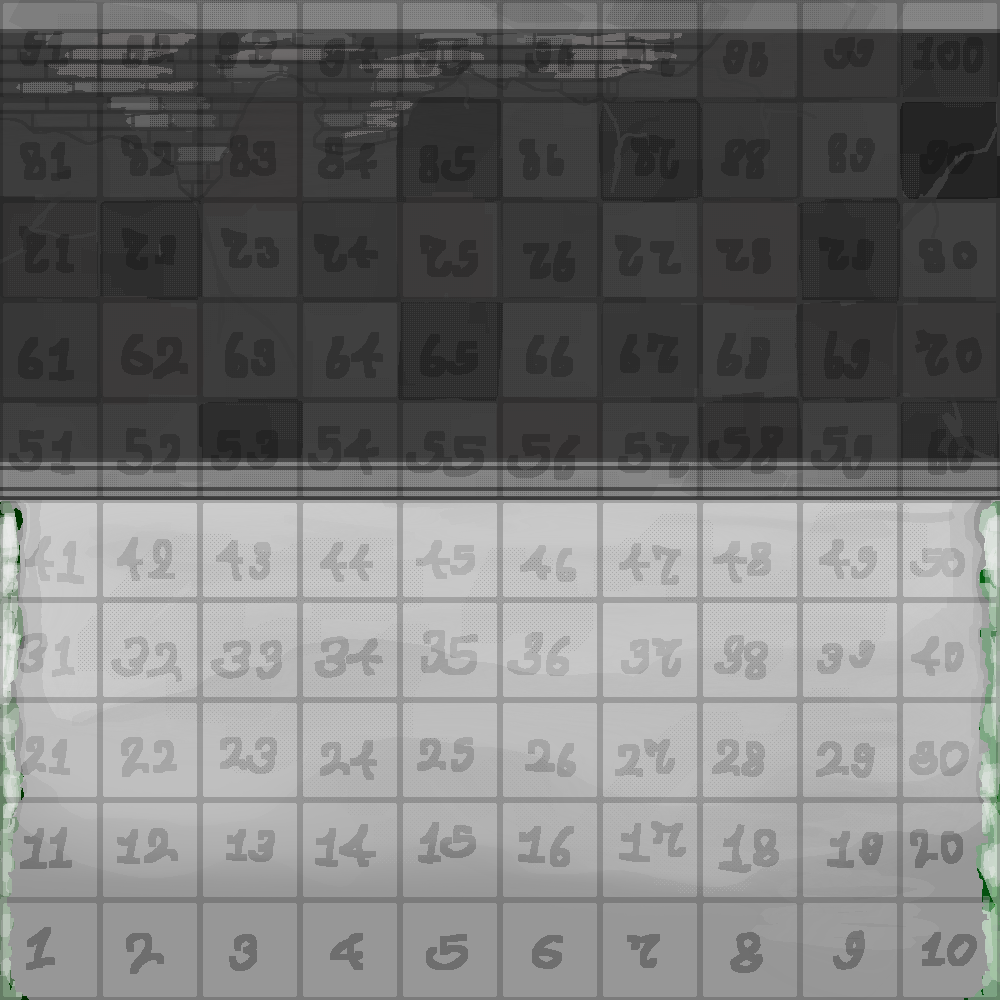
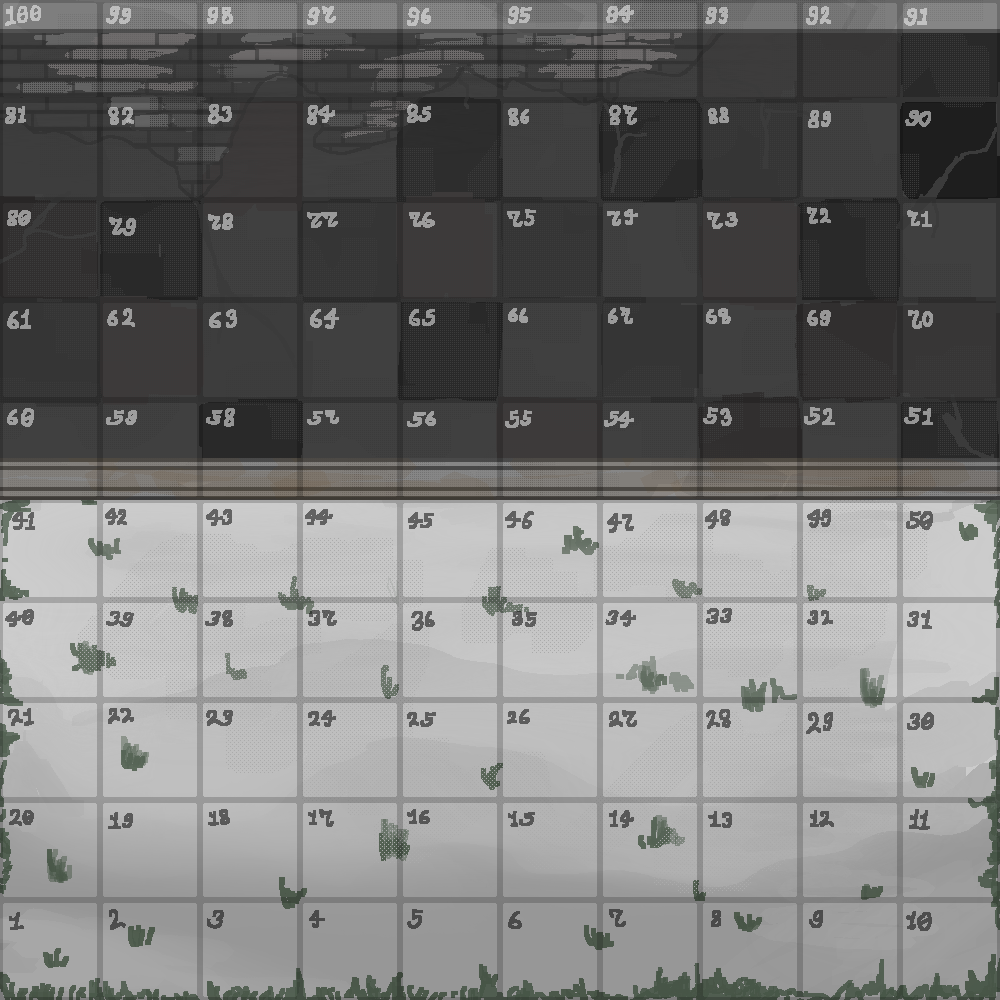
Make cyro gardmap with portal

diff --git a/src/main/java/scene/CyroGard.java b/src/main/java/scene/CyroGard.java
@@ -4,15 +4,20 @@ import Gameplay.GameState;
 import Gameplay.LobbyState;
 import animation.Tween;
 import animation.TweenProperty;
+import graphicsUtilities.ImagePreload;
 import graphicsUtilities.Scene;
 import misc.PawnCharacter;
 import misc.Player;
 import objectClass.AnimatedSprite;
+import objectClass.Board;
 import objectClass.GameButton;
 import objectClass.GameObject;
 import service.CommandHandler;
 
 import java.awt.*;
+import java.awt.event.KeyAdapter;
+import java.awt.event.KeyEvent;
+import java.awt.event.KeyListener;
 import java.util.Comparator;
 import java.util.List;
 
@@ -47,6 +52,16 @@ public class CyroGard extends Scene {
             CommandHandler.sentIntent("INTENT:SELF:CONTINUE");
         });
 
+        addKeyListener(new KeyAdapter() {
+            @Override
+            public void keyPressed(KeyEvent e) {
+                int key = e.getKeyCode();
+                if (key == 32) {
+                    CommandHandler.sentIntent("INTENT:SELF:ROLLEVENT");
+                }
+            }
+        });
+
     }
 
     private void setupObjects() {
@@ -66,6 +81,46 @@ public class CyroGard extends Scene {
             CommandHandler.sentIntent("INTENT:SELF:ROLLEVENT");
         });
         add(rollBtn);
+
+        for (int i = 0; i < Board.destinationCyroGard.length; i++) {
+
+            int portalInIndex;
+            int[] portalInPosition;
+            int portalInX;
+            int portalInY;
+
+            int portalOutIndex;
+            int[] portalOutPosition;
+            int portalOutX;
+            int portalOutY;
+
+            portalInIndex = Board.destinationCyroGard[i][0];
+            portalInPosition = GameState.currentGame.gameBoard.getPositionFromIndex(portalInIndex);
+            portalInX = portalInPosition[0];
+            portalInY = portalInPosition[1];
+
+            AnimatedSprite portalInSprite = new AnimatedSprite("PortalIn.png", portalInX, portalInY, 6, 2);
+            portalInSprite.offsetX = -40;
+            portalInSprite.offsetY = -50;
+
+
+            portalOutIndex = Board.destinationCyroGard[i][1];
+            portalOutPosition = GameState.currentGame.gameBoard.getPositionFromIndex(portalOutIndex);
+            portalOutX = portalOutPosition[0];
+            portalOutY = portalOutPosition[1];
+
+            AnimatedSprite portalOutSprite = new AnimatedSprite("PortalOut.png", portalOutX, portalOutY, 6, 2);
+            portalOutSprite.offsetX = -40;
+            portalOutSprite.offsetY = -50;
+
+            GameObject portalIn = new GameObject(Integer.toString(i), portalInSprite, portalInX, portalInY);
+
+            GameObject portalOut = new GameObject(Integer.toString(i + 20), portalOutSprite, portalOutX, portalOutY);
+
+            spawnObjectAt(portalIn);
+            spawnObjectAt(portalOut);
+
+        }
     }
 
     private void spawnAllPawns() {

diff --git a/src/main/java/Gameplay/GameState.java b/src/main/java/Gameplay/GameState.java
@@ -4,22 +4,16 @@ package Gameplay;
 import Item.Item;
 import OtherUtilities.RandomEvents;
 import OtherUtilities.RandomItems;
-import ServiceInterface.CellAttribute;
-import graphicsUtilities.SceneUtilities;
 import misc.Player;
 import misc.PawnCharacter;
 import objectClass.Board;
 import objectClass.GameModal;
-import scene.LobbyScene;
 import service.CommandHandler;
 import java.util.ArrayList;
 import java.util.HashMap;
-import java.util.LinkedHashMap;
 import java.util.List;
-import Item.DoubleDiceItem;
+
 import Event.Event;
-import Event.ReverseEvent;
-import service.RunService;
 
 import javax.swing.*;
 
@@ -114,16 +108,16 @@ public class GameState {
                 CommandHandler.sentIntent("INTENT:SELF:CHANGESCENETO:" + selectedMapId);
                 switch (selectedMapId) {
                     case "mysteriousJungle" -> gameBoard = new Board(
-                            Board.coordinatesMysteriousJungle,
+                            Board.defaultPosition,
                             Board.destinationMysteriousJungle,
                             Board.itemTileMysteriousJungle,
                             Board.eventTileMysteriousJungle);
 
                     case "cryoGard" -> gameBoard = new Board(
-                            Board.coordinatesMysteriousJungle,
-                            Board.destinationMysteriousJungle,
-                            Board.itemTileMysteriousJungle,
-                            Board.eventTileMysteriousJungle);
+                            Board.defaultPosition,
+                            Board.destinationCyroGard,
+                            Board.itemTileCyroGard,
+                            Board.eventTileCyroGard);
                     case "goldenSeason" -> {}
                 }
                 setAllPlayersUnreadyToContinue();

diff --git a/src/main/java/objectClass/Board.java b/src/main/java/objectClass/Board.java
@@ -1,13 +1,12 @@
 package objectClass;
 
 import Gameplay.Cell;
+import OtherUtilities.RandomPortalPosition;
 import ServiceInterface.CellAttribute;
-
-import java.util.EnumSet;
 
 public class Board {
 
-    public static int[][] coordinatesMysteriousJungle = {
+    public static int[][] defaultPosition = {
             {500, 990}, {600, 990}, {700, 990}, {800, 990}, {900, 990}, {1000, 990}, {1100, 990}, {1200, 990}, {1300, 990}, {1400, 990},
             {1400, 890}, {1300, 890}, {1200, 890}, {1100, 890}, {1000, 890}, {900, 890}, {800, 890}, {700, 890}, {600, 890}, {500, 890},
             {500, 790}, {600, 790}, {700, 790}, {800, 790}, {900, 790}, {1000, 790}, {1100, 790}, {1200, 790}, {1300, 790}, {1400, 790},
@@ -25,6 +24,10 @@ public class Board {
     public static int[][] destinationMysteriousJungle = {{1,49}, {2,49}, {3, 49}, {4,49}, {5,49}, {6,49}, {7, 49}};
     public static int[] itemTileMysteriousJungle = {49,50,51,52,53,54,55,56,57,58,59,60}; //mock data
     public static int[] eventTileMysteriousJungle = {}; //mock data
+
+    public static int[][] destinationCyroGard = RandomPortalPosition.resultRandomPortalPosition();
+    public static int[] itemTileCyroGard = {};
+    public static int[] eventTileCyroGard = {};
 
 
 

diff --git a/src/main/java/OtherUtilities/RandomPortalPosition.java b/src/main/java/OtherUtilities/RandomPortalPosition.java
@@ -21,10 +21,10 @@ public class RandomPortalPosition {
 
     public static int[][] resultRandomPortalPosition(){
         
-        int[][] result = new int[3][2];
+        int[][] result = new int[7][2];
         int head;
         int tail;
-        for ( int j = 0; j < 3; j++ ){
+        for ( int j = 0; j < 7; j++ ){
 
             do{
                 head = RandomUtilities.randomInt(100);
@@ -35,10 +35,10 @@ public class RandomPortalPosition {
             }while(head == tail || banPosition.contains(tail));
 
             result[j][0] = head;
-            result[j][0] = tail;
+            result[j][1] = tail;
 
         }
-        
+        System.out.println("First Portal : " + result[0][0] + "," + result[0][1]);
         return result;
 
     }

diff --git a/src/main/java/service/MainGame.java b/src/main/java/service/MainGame.java
@@ -10,6 +10,8 @@ import misc.Player;
 
 import javax.swing.*;
 import java.awt.*;
+import java.awt.event.KeyAdapter;
+import java.awt.event.KeyEvent;
 import java.awt.event.WindowAdapter;
 import java.awt.event.WindowEvent;
 
@@ -26,14 +28,13 @@ public class MainGame extends JFrame {
             MainGame mainGame = new MainGame();
             mainGame.setVisible(true);
         });
-        System.out.println(RandomPortalPosition.resultRandomPortalPosition()[0][0]);
     }
 
     public MainGame() {
         setTitle("Dice Legend");
         setLocationRelativeTo(null);
         setDefaultCloseOperation(JFrame.EXIT_ON_CLOSE);
-        addKeyListener(new UserInput());
+
 
         addWindowListener(new WindowAdapter() {
             @Override

diff --git a/src/main/java/graphicsUtilities/SceneUtilities.java b/src/main/java/graphicsUtilities/SceneUtilities.java
@@ -49,7 +49,7 @@ public class SceneUtilities {
         }
 
 
-        newScene.setFocusable(false);
+        newScene.setFocusable(true);
         currentGameScene = newScene;
         mainGameFrame.getContainer().add(newScene);
 
